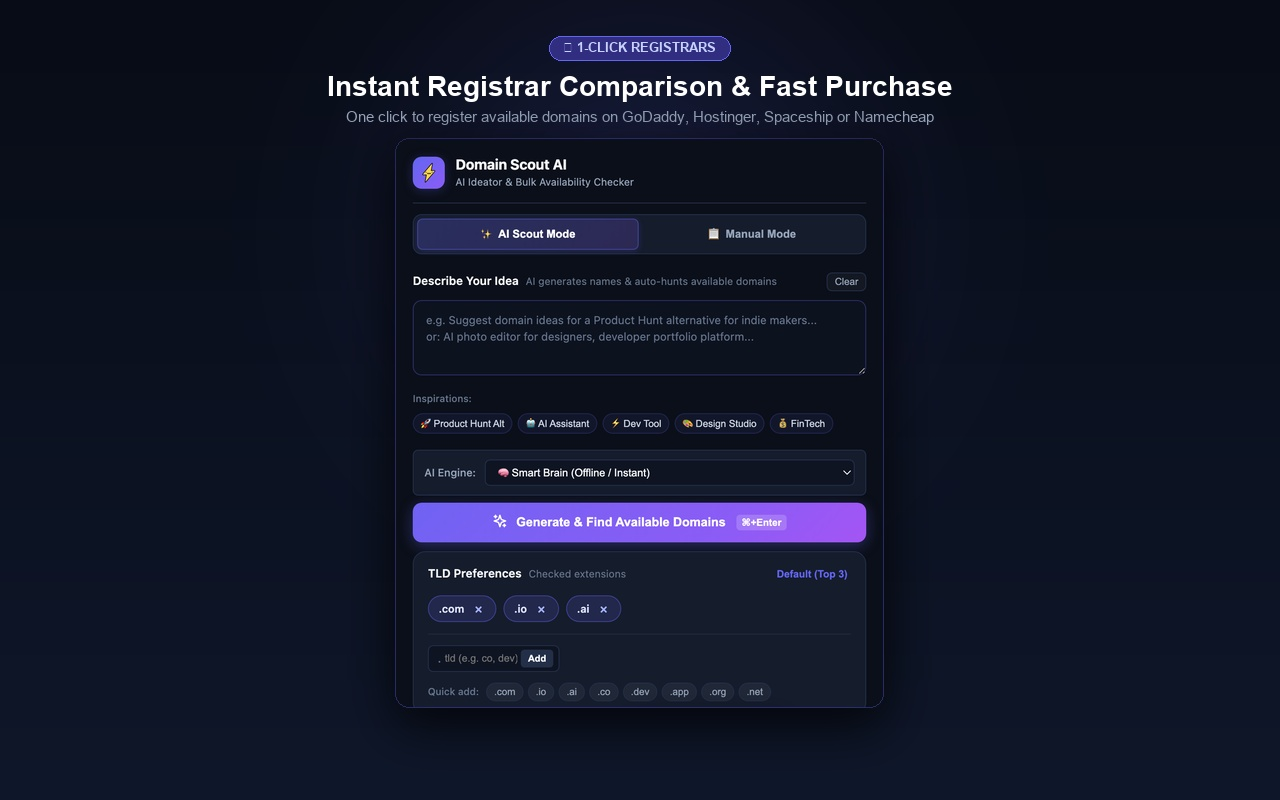
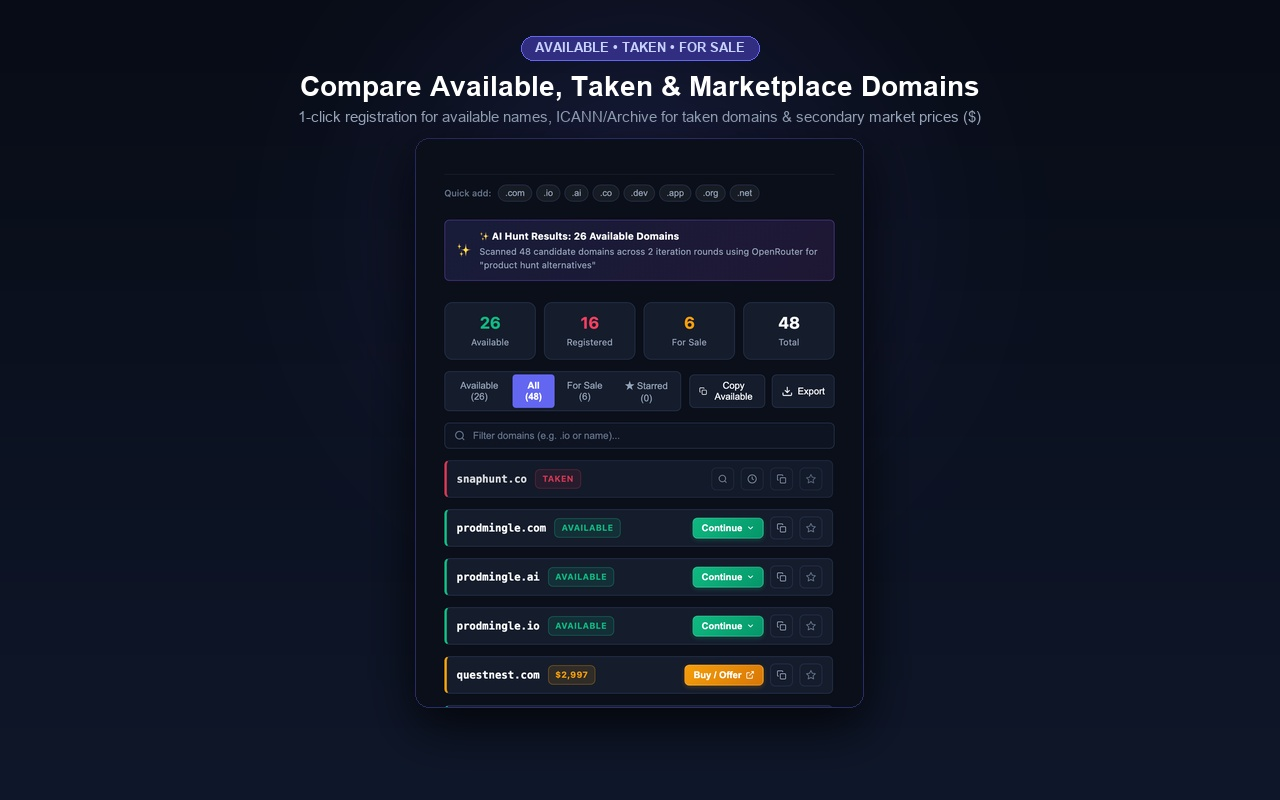
Update store screenshot 4 with multi-status domain results

Changed region(s): [[0.3125, 0.1875, 0.6875, 0.875], [0.2188, 0.0312, 0.7812, 0.1562]]

diff --git a/generate_store_assets.py b/generate_store_assets.py
@@ -111,7 +111,11 @@ def render_real_popup_state(state_config, output_png, window_height=640):
         with open(html_path, "r", encoding="utf-8") as f:
             html = f.read()
             
+        custom_css = state_config.get("customCss", "")
+        style_inject = f"<style>{custom_css}</style>" if custom_css else ""
+        
         script_code = f"""
+        {style_inject}
         <script>
           // Pre-populate real storage state
           localStorage.setItem('dc_currentMode', JSON.stringify({json.dumps(state_config.get('currentMode', 'ai'))}));
@@ -162,6 +166,57 @@ def render_real_popup_state(state_config, output_png, window_height=640):
 # Real Screenshot Configurations (5 States)
 # ---------------------------------------------------------
 
+RESULTS_SAMPLE_SCREENSHOT_4 = [
+    {"domain": "snaphunt.co", "name": "snaphunt", "tld": "co", "isAvailable": False, "isRegistered": True, "isAftermarket": False},
+    {"domain": "prodmingle.com", "name": "prodmingle", "tld": "com", "isAvailable": True, "isRegistered": False, "isAftermarket": False},
+    {"domain": "prodmingle.ai", "name": "prodmingle", "tld": "ai", "isAvailable": True, "isRegistered": False, "isAftermarket": False},
+    {"domain": "prodmingle.io", "name": "prodmingle", "tld": "io", "isAvailable": True, "isRegistered": False, "isAftermarket": False},
+    {"domain": "questnest.com", "name": "questnest", "tld": "com", "isAvailable": False, "isRegistered": True, "isAftermarket": True, "marketPrice": 2997, "marketName": "Afternic"},
+    {"domain": "launchhive.ai", "name": "launchhive", "tld": "ai", "isAvailable": True, "isRegistered": False, "isAftermarket": False},
+    {"domain": "productnest.dev", "name": "productnest", "tld": "dev", "isAvailable": True, "isRegistered": False, "isAftermarket": False},
+    {"domain": "huntforge.io", "name": "huntforge", "tld": "io", "isAvailable": True, "isRegistered": False, "isAftermarket": False},
+    {"domain": "scoutcraft.ai", "name": "scoutcraft", "tld": "ai", "isAvailable": True, "isRegistered": False, "isAftermarket": False},
+    {"domain": "makerspot.app", "name": "makerspot", "tld": "app", "isAvailable": True, "isRegistered": False, "isAftermarket": False},
+    {"domain": "founderfeed.io", "name": "founderfeed", "tld": "io", "isAvailable": True, "isRegistered": False, "isAftermarket": False},
+    {"domain": "techscout.co", "name": "techscout", "tld": "co", "isAvailable": True, "isRegistered": False, "isAftermarket": False},
+    {"domain": "launchpulse.dev", "name": "launchpulse", "tld": "dev", "isAvailable": True, "isRegistered": False, "isAftermarket": False},
+    {"domain": "makerbase.io", "name": "makerbase", "tld": "io", "isAvailable": True, "isRegistered": False, "isAftermarket": False},
+    {"domain": "buildhunt.ai", "name": "buildhunt", "tld": "ai", "isAvailable": True, "isRegistered": False, "isAftermarket": False},
+    {"domain": "launchgrid.co", "name": "launchgrid", "tld": "co", "isAvailable": True, "isRegistered": False, "isAftermarket": False},
+    {"domain": "indiespot.dev", "name": "indiespot", "tld": "dev", "isAvailable": True, "isRegistered": False, "isAftermarket": False},
+    {"domain": "shipflow.ai", "name": "shipflow", "tld": "ai", "isAvailable": True, "isRegistered": False, "isAftermarket": False},
+    {"domain": "appscout.io", "name": "appscout", "tld": "io", "isAvailable": True, "isRegistered": False, "isAftermarket": False},
+    {"domain": "curatehub.co", "name": "curatehub", "tld": "co", "isAvailable": True, "isRegistered": False, "isAftermarket": False},
+    {"domain": "launchvibe.app", "name": "launchvibe", "tld": "app", "isAvailable": True, "isRegistered": False, "isAftermarket": False},
+    {"domain": "buildwave.ai", "name": "buildwave", "tld": "ai", "isAvailable": True, "isRegistered": False, "isAftermarket": False},
+    {"domain": "makerhive.io", "name": "makerhive", "tld": "io", "isAvailable": True, "isRegistered": False, "isAftermarket": False},
+    {"domain": "venturestack.dev", "name": "venturestack", "tld": "dev", "isAvailable": True, "isRegistered": False, "isAftermarket": False},
+    {"domain": "shipradar.ai", "name": "shipradar", "tld": "ai", "isAvailable": True, "isRegistered": False, "isAftermarket": False},
+    {"domain": "prodhunt.co", "name": "prodhunt", "tld": "co", "isAvailable": True, "isRegistered": False, "isAftermarket": False},
+    {"domain": "indielaunch.org", "name": "indielaunch", "tld": "org", "isAvailable": True, "isRegistered": False, "isAftermarket": False},
+    {"domain": "indieflow.app", "name": "indieflow", "tld": "app", "isAvailable": True, "isRegistered": False, "isAftermarket": False},
+    {"domain": "producthunt.io", "name": "producthunt", "tld": "io", "isAvailable": False, "isRegistered": True, "isAftermarket": True, "marketPrice": 4500, "marketName": "Sedo"},
+    {"domain": "launchpad.ai", "name": "launchpad", "tld": "ai", "isAvailable": False, "isRegistered": True, "isAftermarket": True, "marketPrice": 12500, "marketName": "Afternic"},
+    {"domain": "makerhub.com", "name": "makerhub", "tld": "com", "isAvailable": False, "isRegistered": True, "isAftermarket": True, "marketPrice": 3200, "marketName": "Afternic"},
+    {"domain": "techhunt.com", "name": "techhunt", "tld": "com", "isAvailable": False, "isRegistered": True, "isAftermarket": True, "marketPrice": 1800, "marketName": "Dan"},
+    {"domain": "indiehunt.io", "name": "indiehunt", "tld": "io", "isAvailable": False, "isRegistered": True, "isAftermarket": True, "marketPrice": 2400, "marketName": "GoDaddy"},
+    {"domain": "producthunt.com", "name": "producthunt", "tld": "com", "isAvailable": False, "isRegistered": True, "isAftermarket": False},
+    {"domain": "producthunt.ai", "name": "producthunt", "tld": "ai", "isAvailable": False, "isRegistered": True, "isAftermarket": False},
+    {"domain": "betalist.com", "name": "betalist", "tld": "com", "isAvailable": False, "isRegistered": True, "isAftermarket": False},
+    {"domain": "betalist.io", "name": "betalist", "tld": "io", "isAvailable": False, "isRegistered": True, "isAftermarket": False},
+    {"domain": "launchingnext.com", "name": "launchingnext", "tld": "com", "isAvailable": False, "isRegistered": True, "isAftermarket": False},
+    {"domain": "indiehackers.com", "name": "indiehackers", "tld": "com", "isAvailable": False, "isRegistered": True, "isAftermarket": False},
+    {"domain": "hackernews.com", "name": "hackernews", "tld": "com", "isAvailable": False, "isRegistered": True, "isAftermarket": False},
+    {"domain": "productstash.io", "name": "productstash", "tld": "io", "isAvailable": False, "isRegistered": True, "isAftermarket": False},
+    {"domain": "alternativeto.net", "name": "alternativeto", "tld": "net", "isAvailable": False, "isRegistered": True, "isAftermarket": False},
+    {"domain": "startupstash.com", "name": "startupstash", "tld": "com", "isAvailable": False, "isRegistered": True, "isAftermarket": False},
+    {"domain": "toolhunt.com", "name": "toolhunt", "tld": "com", "isAvailable": False, "isRegistered": True, "isAftermarket": False},
+    {"domain": "sideprojectors.com", "name": "sideprojectors", "tld": "com", "isAvailable": False, "isRegistered": True, "isAftermarket": False},
+    {"domain": "microlaunch.net", "name": "microlaunch", "tld": "net", "isAvailable": False, "isRegistered": True, "isAftermarket": False},
+    {"domain": "uneed.best", "name": "uneed", "tld": "best", "isAvailable": False, "isRegistered": True, "isAftermarket": False},
+    {"domain": "saashub.com", "name": "saashub", "tld": "com", "isAvailable": False, "isRegistered": True, "isAftermarket": False}
+]
+
 SCREENSHOTS = [
     {
         "config": {
@@ -173,7 +228,7 @@ SCREENSHOTS = [
             "lastAiMeta": None
         },
         "window_height": 550,
-        "tag": "🤖 MULTI-MODEL AI SCOUT",
+        "tag": "MULTI-MODEL AI SCOUT",
         "title": "Brainstorm Domain Names Fast with AI",
         "subtitle": "Describe any product or startup idea — AI brainstorms & auto-hunts available domains",
         "out": "screenshot-1-search-input.jpg"
@@ -197,7 +252,7 @@ SCREENSHOTS = [
             "currentFilter": "available"
         },
         "window_height": 640,
-        "tag": "✨ 10 AVAILABLE FOUND",
+        "tag": "10 AVAILABLE FOUND",
         "title": "Autonomous AI Hunt Across Iterative Rounds",
         "subtitle": "Auto-exclusion loop detects taken names and iterates until 10 available domains are found",
         "out": "screenshot-2-results-overview.jpg"
@@ -211,7 +266,7 @@ SCREENSHOTS = [
             "lastAiMeta": None
         },
         "window_height": 550,
-        "tag": "📋 MANUAL BULK SEARCH",
+        "tag": "MANUAL BULK SEARCH",
         "title": "Paste ChatGPT Lists, Markdown Tables & Notes",
         "subtitle": "Handles raw chat transcripts, parenthetical TLDs, JSON arrays & 1-click startup variations",
         "out": "screenshot-3-registrars-continue.jpg"
@@ -219,16 +274,54 @@ SCREENSHOTS = [
     {
         "config": {
             "currentMode": "ai",
-            "preferredTlds": ["com", "io", "ai"],
-            "lastResults": SAMPLE_RESULTS,
-            "starredDomains": ["agentflow.ai"],
-            "currentFilter": "available",
-            "openRegistrarDropdown": True
+            "aiPrompt": "product hunt alternatives",
+            "aiProvider": "openrouter",
+            "preferredTlds": ["com", "io", "ai", "co", "dev", "app", "org", "net"],
+            "lastAiMeta": {
+                "prompt": "product hunt alternatives",
+                "rounds": 2,
+                "totalChecked": 48,
+                "availableCount": 26,
+                "engine": "openrouter",
+                "engineName": "OpenRouter"
+            },
+            "lastResults": RESULTS_SAMPLE_SCREENSHOT_4,
+            "starredDomains": [],
+            "currentFilter": "all",
+            "customCss": """
+              .app-header, .mode-tabs, #sectionAi, #sectionManual, .preferences-section .section-header, .tld-chips-container, .input-with-btn {
+                display: none !important;
+              }
+              body {
+                padding: 10px 16px 14px 16px !important;
+                margin: 0 !important;
+              }
+              .preferences-section {
+                padding: 0 0 6px 0 !important;
+                margin: 0 0 6px 0 !important;
+                border: none !important;
+                background: transparent !important;
+              }
+              .quick-tlds-wrapper {
+                width: 100% !important;
+              }
+              .results-dashboard {
+                margin-top: 0 !important;
+              }
+              .results-list {
+                max-height: none !important;
+                overflow-y: visible !important;
+              }
+              .domain-item {
+                margin-bottom: 6px !important;
+                padding: 8px 12px !important;
+              }
+            """
         },
-        "window_height": 640,
-        "tag": "🛒 1-CLICK REGISTRARS",
-        "title": "Instant Registrar Comparison & Fast Purchase",
-        "subtitle": "One click to register available domains on GoDaddy, Hostinger, Spaceship or Namecheap",
+        "window_height": 698,
+        "tag": "AVAILABLE • TAKEN • FOR SALE",
+        "title": "Compare Available, Taken & Marketplace Domains",
+        "subtitle": "1-click registration for available names, ICANN/Archive for taken domains & secondary market prices ($)",
         "out": "screenshot-4-aftermarket-pricing.jpg"
     },
     {
@@ -240,7 +333,7 @@ SCREENSHOTS = [
             "currentFilter": "starred"
         },
         "window_height": 640,
-        "tag": "⭐ PRODUCTIVITY SUITE",
+        "tag": "PRODUCTIVITY SUITE",
         "title": "Starred Shortlists, Aftermarket Pricing & Reports",
         "subtitle": "Bookmark favorites, discover secondary market prices ($), and export clean text reports",
         "out": "screenshot-5-favorites-export.jpg"

diff --git a/PUBLISHING_KIT.md b/PUBLISHING_KIT.md
@@ -106,7 +106,7 @@ All promo assets and screenshots have been generated in [`store-assets/`](file:/
 | **Screenshot 1** | 1280 x 800 px | `screenshot-1-search-input.jpg` | Brainstorm Domain Names Fast with AI |
 | **Screenshot 2** | 1280 x 800 px | `screenshot-2-results-overview.jpg` | 10 Available Found — Autonomous Multi-Round Hunt |
 | **Screenshot 3** | 1280 x 800 px | `screenshot-3-registrars-continue.jpg` | Manual Bulk Search — ChatGPT Lists & Variations |
-| **Screenshot 4** | 1280 x 800 px | `screenshot-4-aftermarket-pricing.jpg` | 1-Click Registrar Comparison & Purchase |
+| **Screenshot 4** | 1280 x 800 px | `screenshot-4-aftermarket-pricing.jpg` | Compare Available, Taken & Marketplace Domains |
 | **Screenshot 5** | 1280 x 800 px | `screenshot-5-favorites-export.jpg` | Starred Shortlists, Aftermarket Pricing & Reports |
 | **Extension Icon** | 128 x 128 px | `src/icons/icon-128.png` | Store Listing App Icon |
 
